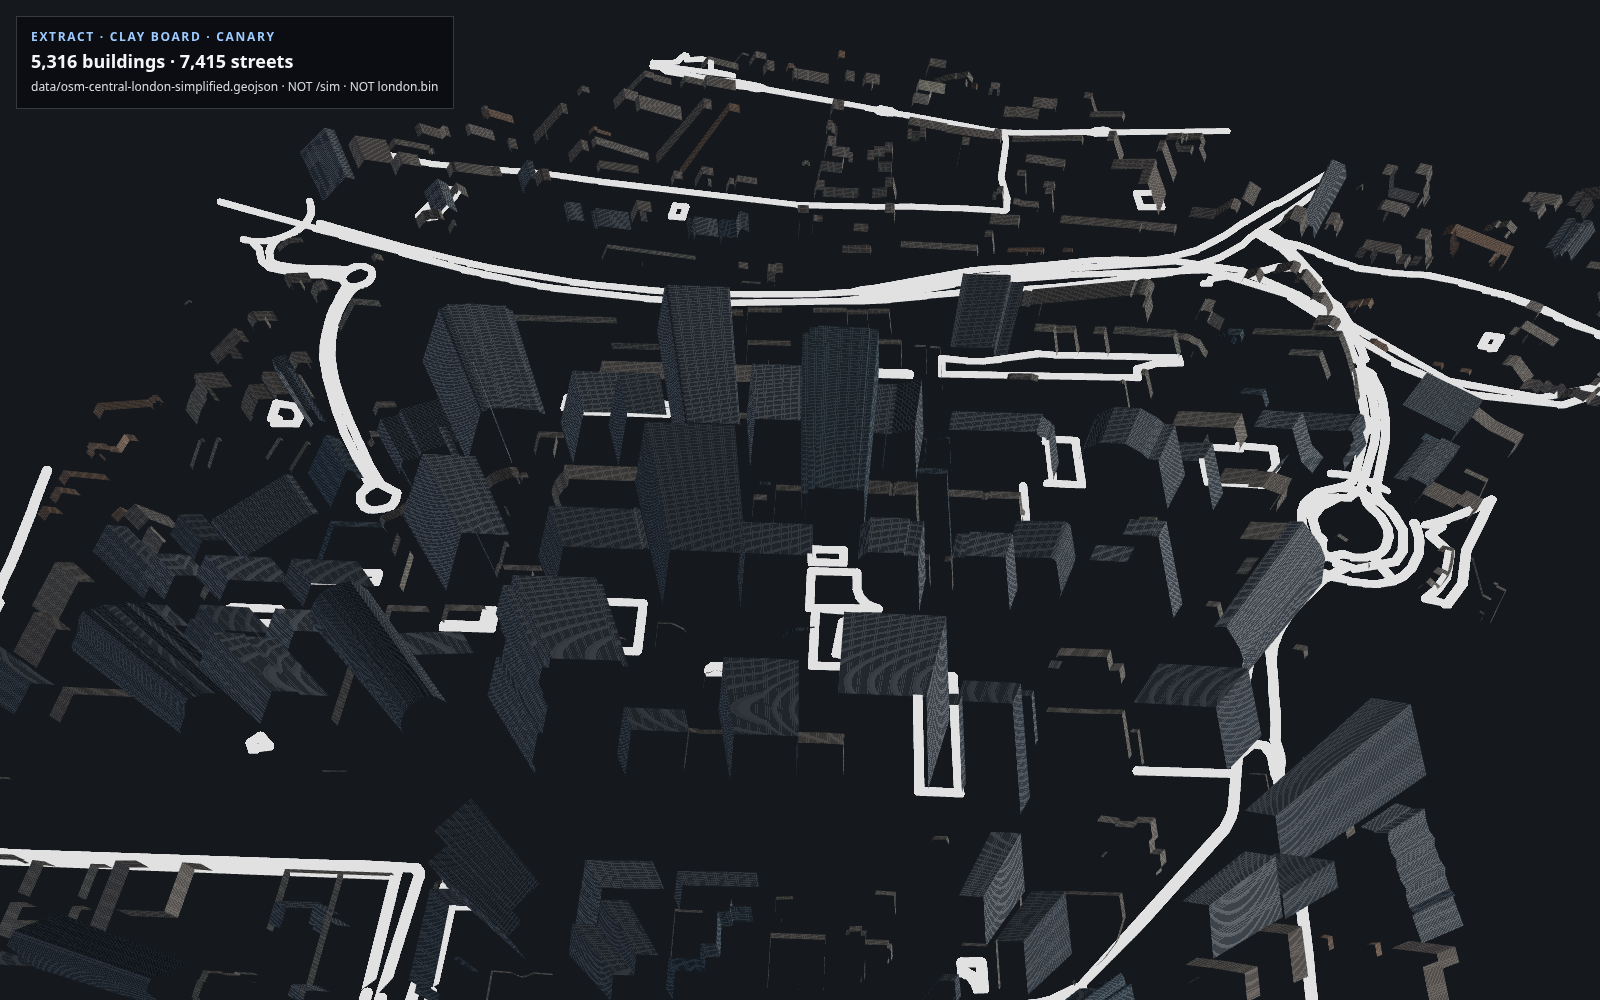
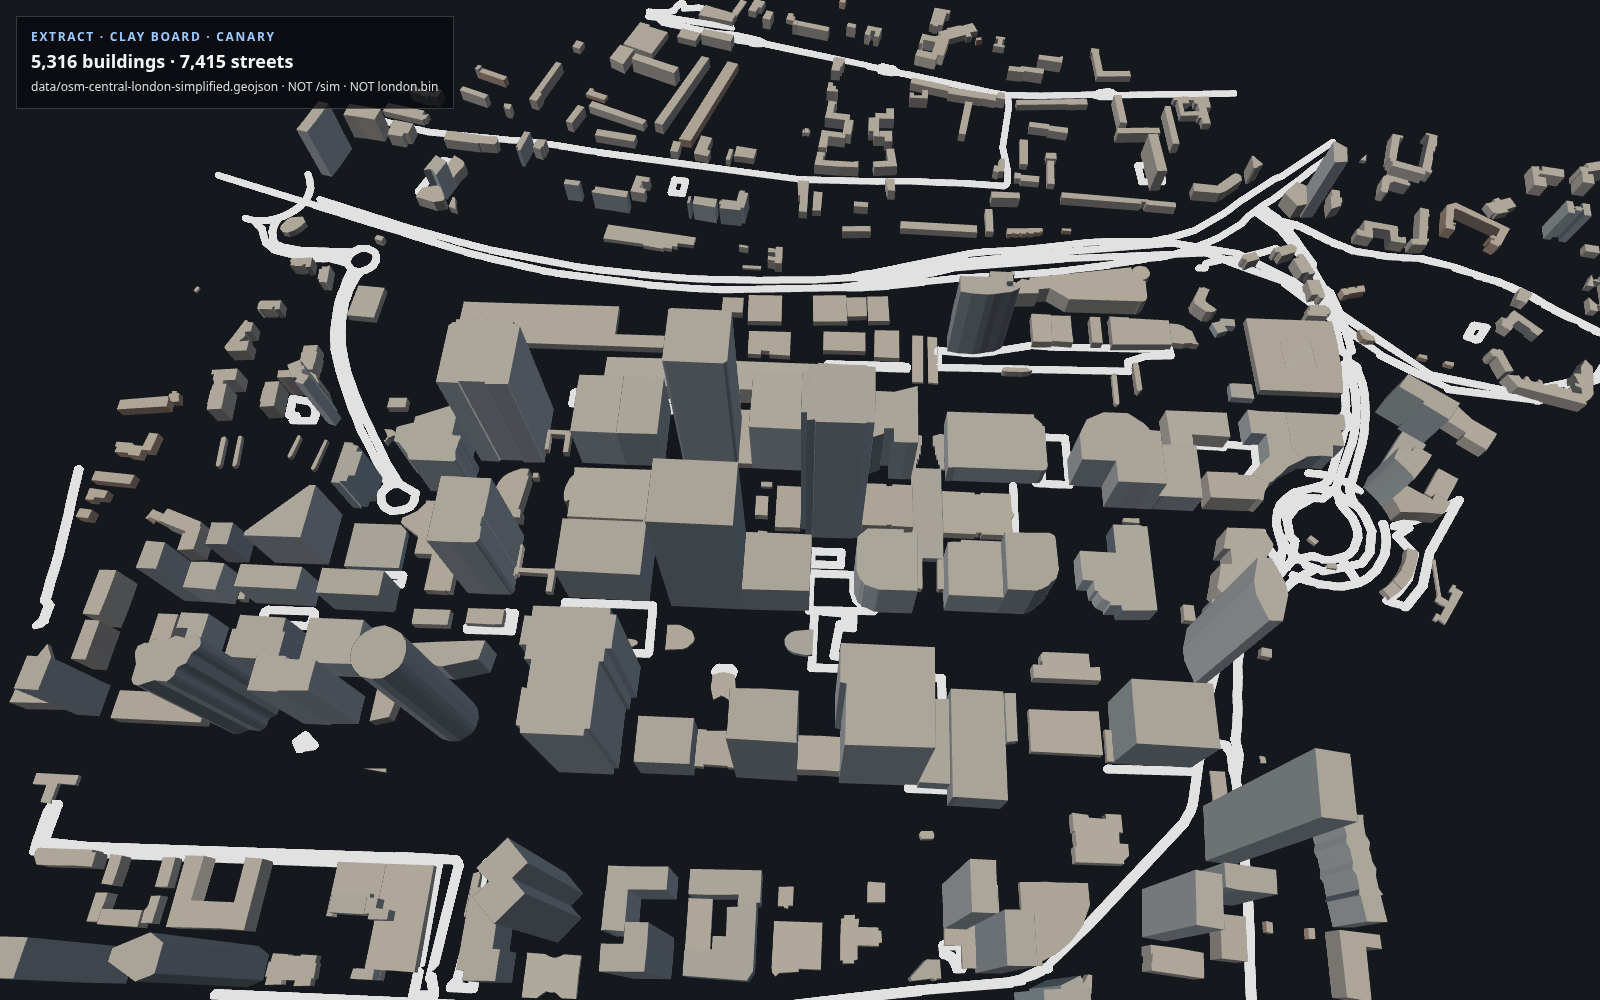
Make extract-still landmarks solid extrusions with roofs.
Roof caps now face +Y, extract stills drop the window-shader cages, and
Palace courtyards are filled only in the throwaway renderer so the Eye,
Shard, and Wharf towers read as clay volumes. /sim frames are unchanged.

diff --git a/lib/sim/build-city.ts b/lib/sim/build-city.ts
@@ -266,59 +266,43 @@ function extrudePolygon(
   minH: number,
   height: number,
   palette: BuildingPalette,
+  preview?: CityPreviewOptions,
 ) {
   const outerCcw = ensureWinding(outer, true);
-  const holeCw = holes.map((h) => ensureWinding(h, false));
   if (outerCcw.length < 3) return;
+
+  const solid = Boolean(preview?.solidClay);
+  const holeCw = solid ? [] : holes.map((h) => ensureWinding(h, false));
+  const roof: [number, number, number] = solid
+    ? [
+        clamp01(palette.roof[0] * 0.35 + 0.58),
+        clamp01(palette.roof[1] * 0.35 + 0.5),
+        clamp01(palette.roof[2] * 0.3 + 0.4),
+      ]
+    : palette.roof;
 
   const roofY = height;
   const tris = triangulate(outerCcw, holeCw);
   for (let i = 0; i < tris.length; i += 6) {
-    const a = addVertex(
-      w,
-      tris[i],
-      roofY,
-      tris[i + 1],
-      0,
-      1,
-      0,
-      palette.roof[0],
-      palette.roof[1],
-      palette.roof[2],
-    );
-    const b = addVertex(
-      w,
-      tris[i + 2],
-      roofY,
-      tris[i + 3],
-      0,
-      1,
-      0,
-      palette.roof[0],
-      palette.roof[1],
-      palette.roof[2],
-    );
-    const c = addVertex(
-      w,
-      tris[i + 4],
-      roofY,
-      tris[i + 5],
-      0,
-      1,
-      0,
-      palette.roof[0],
-      palette.roof[1],
-      palette.roof[2],
-    );
-    addTri(w, a, b, c);
+    const a = addVertex(w, tris[i], roofY, tris[i + 1], 0, 1, 0, roof[0], roof[1], roof[2]);
+    const b = addVertex(w, tris[i + 2], roofY, tris[i + 3], 0, 1, 0, roof[0], roof[1], roof[2]);
+    const c = addVertex(w, tris[i + 4], roofY, tris[i + 5], 0, 1, 0, roof[0], roof[1], roof[2]);
+    // CCW in XZ produces −Y; reverse so the cap faces +Y (visible from above).
+    addTri(w, a, c, b);
   }
 
   const glassMix = palette.glass;
-  const wr: [number, number, number] = [
-    mix(palette.wall[0], palette.wall[0] * 0.35, glassMix * 0.35),
-    mix(palette.wall[1], palette.wall[1] * 0.4, glassMix * 0.35),
-    mix(palette.wall[2], palette.wall[2] * 0.55, glassMix * 0.35),
-  ];
+  const wr: [number, number, number] = solid
+    ? [
+        mix(palette.wall[0], 0.62, glassMix * 0.4),
+        mix(palette.wall[1], 0.64, glassMix * 0.4),
+        mix(palette.wall[2], 0.66, glassMix * 0.4),
+      ]
+    : [
+        mix(palette.wall[0], palette.wall[0] * 0.35, glassMix * 0.35),
+        mix(palette.wall[1], palette.wall[1] * 0.4, glassMix * 0.35),
+        mix(palette.wall[2], palette.wall[2] * 0.55, glassMix * 0.35),
+      ];
 
   const rings = [outerCcw, ...holeCw];
   for (const ring of rings) {
@@ -468,6 +452,8 @@ export interface CityPreviewOptions {
   waterY?: number;
   parkY?: number;
   roadWidthScale?: number;
+  /** Opaque walls + lighter roof caps so landmarks read as solid clay, not cages. */
+  solidClay?: boolean;
 }
 
 export function worldExtentMeters(): { width: number; depth: number } {
@@ -518,6 +504,7 @@ export async function buildCity(input: {
         props.minHeight ?? 0,
         props.height,
         palette,
+        input.preview,
       );
       any = true;
       if (props.name || props.height >= 70) {

diff --git a/scripts/test-sim.ts b/scripts/test-sim.ts
@@ -226,6 +226,28 @@ async function main() {
       let maxY = 0;
       for (let i = 1; i < chunk.positions.length; i += 3) maxY = Math.max(maxY, chunk.positions[i]);
       assert.ok(maxY > 190, `tower roof should be ~200m, got ${maxY}`);
+      const pos = chunk.positions;
+      const idx = chunk.indices;
+      let roofUp = 0;
+      let roofDown = 0;
+      for (let i = 0; i < idx.length; i += 3) {
+        const ia = idx[i] * 3;
+        const ib = idx[i + 1] * 3;
+        const ic = idx[i + 2] * 3;
+        if (Math.min(pos[ia + 1], pos[ib + 1], pos[ic + 1]) < maxY - 0.5) continue;
+        const ax = pos[ib] - pos[ia];
+        const az = pos[ib + 2] - pos[ia + 2];
+        const bx = pos[ic] - pos[ia];
+        const bz = pos[ic + 2] - pos[ia + 2];
+        const crossY = az * bx - ax * bz;
+        if (crossY > 0) roofUp += 1;
+        else if (crossY < 0) roofDown += 1;
+      }
+      assert.ok(roofUp >= 2, `expected roof triangles, got ${roofUp} up / ${roofDown} down`);
+      assert.ok(
+        roofUp > roofDown,
+        'roof caps must face +Y so towers are not hollow cages from above',
+      );
     },
   );
 
@@ -479,6 +501,9 @@ async function main() {
       'utf8',
     );
     assert.match(extractClient, /EXTRACT_URL = '\/extract\.geojson'/);
+    assert.match(extractClient, /solidClay: true/);
+    assert.match(extractClient, /DoubleSide/);
+    assert.doesNotMatch(extractClient, /createBuildingMaterial/);
     assert.doesNotMatch(extractClient, /fetch\([^)]*london\.bin/);
     assert.doesNotMatch(extractClient, /COMPACT_PUBLIC_PATH/);
     for (const file of [

diff --git a/scripts/extract-still-client.ts b/scripts/extract-still-client.ts
@@ -10,7 +10,7 @@ import { buildCity } from '../lib/sim/build-city';
 import { hubTarget, overviewPose, type CameraPose } from '../lib/sim/camera';
 import { SIM_HUBS, type SimHubId } from '../lib/sim/constants';
 import { projectLngLat } from '../lib/sim/projection';
-import { createBuildingMaterial, setupScene } from '../lib/sim/scene-setup';
+import { setupScene } from '../lib/sim/scene-setup';
 import type {
   BuildingProperties,
   LandcoverProperties,
@@ -188,11 +188,15 @@ async function main() {
       parkColor: [0.42, 0.58, 0.36],
       waterY: 0.4,
       parkY: 0.5,
+      solidClay: true,
     },
   });
   mesh.stats.roads = parts.roads.features.length;
 
-  const buildingMat = createBuildingMaterial();
+  const buildingMat = new THREE.MeshLambertMaterial({
+    vertexColors: true,
+    side: THREE.DoubleSide,
+  });
   const parkMat = new THREE.MeshLambertMaterial({ vertexColors: true });
   const waterMat = new THREE.MeshBasicMaterial({ vertexColors: true });
 
@@ -223,14 +227,14 @@ async function main() {
       };
     },
     streets: () => hubLookDown('city', 1480, 220),
-    canary: () => hubLookDown('canarywharf', 860, 580),
+    canary: () => hubLookDown('canarywharf', 980, 480),
     westminster: () =>
       framePickables(
         mesh.pickables,
         /palace of westminster|london eye/i,
-        hubLookDown('westminster', 780, 620),
-        620,
-        780,
+        hubLookDown('westminster', 820, 580),
+        560,
+        820,
       ),
     farringdon: () => hubLookDown('farringdon', 780, 520),
   };
